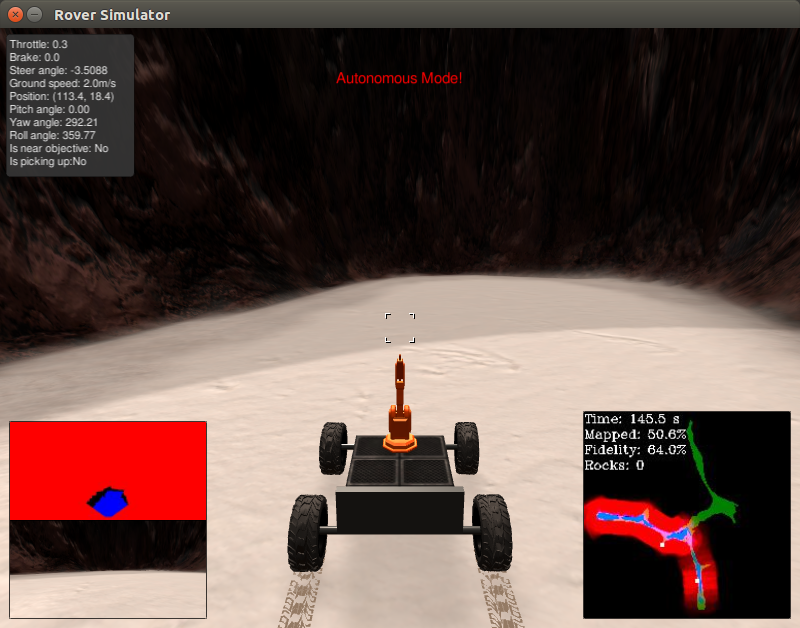
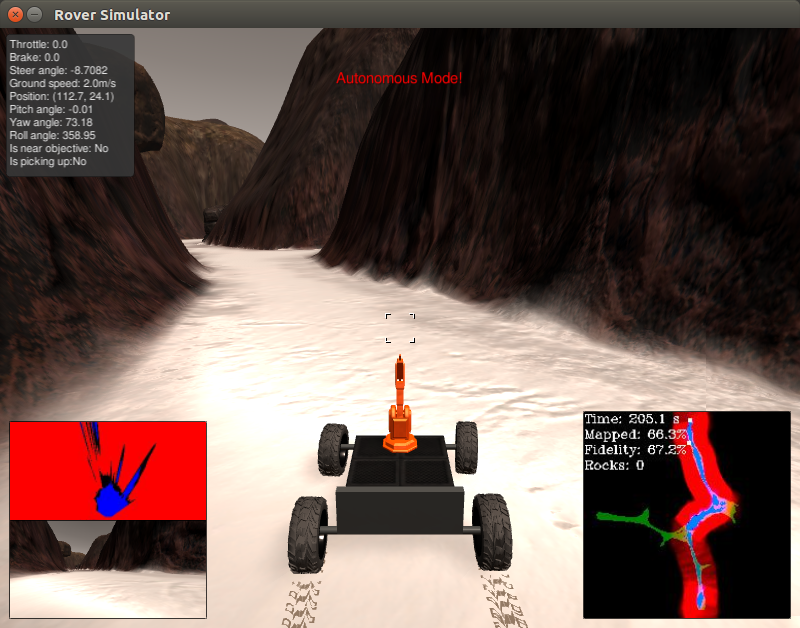
Fixed spinning at tunnel end. Reduced turning angle. Lower go_forward threshold to 1000 to move forward in narrow tunnel.

diff --git a/code/decision.py b/code/decision.py
@@ -25,7 +25,7 @@ def decision_step(Rover):
                     Rover.throttle = 0
                 Rover.brake = 0
                 # Set steering to average angle clipped to the range +/- 15
-                Rover.steer = np.clip(np.mean(Rover.nav_angles * 180/np.pi)+1, -10, 15)
+                Rover.steer = np.clip(np.mean(Rover.nav_angles * 180/np.pi)+1, -10, 10)
             # If there's a lack of navigable terrain pixels then go to 'stop' mode
             elif len(Rover.nav_angles) < Rover.stop_forward:
                     # Set mode to "stop" and hit the brakes!
@@ -52,7 +52,7 @@ def decision_step(Rover):
                     # Release the brake to allow turning
                     Rover.brake = 0
                     # Turn range is +/- 15 degrees, when stopped the next line will induce 4-wheel turning
-                    Rover.steer = -15 # Could be more clever here about which way to turn
+                    Rover.steer = -10 # Could be more clever here about which way to turn
                     # If we're stopped but see sufficient navigable terrain in front then go!
                 if len(Rover.nav_angles) >= Rover.go_forward:
                     # Rover.go_temp = 0
@@ -61,7 +61,7 @@ def decision_step(Rover):
                     # Release the brake
                     Rover.brake = 0
                     # Set steer to mean angle
-                    Rover.steer = np.clip(np.mean(Rover.nav_angles * 180/np.pi)+1, -10, 15)
+                    Rover.steer = np.clip(np.mean(Rover.nav_angles * 180/np.pi)+1, -10, 10)
                     Rover.mode = 'forward'
     # Just to make the rover do something 
     # even if no modifications have been made to the code

diff --git a/code/drive_rover.py b/code/drive_rover.py
@@ -60,7 +60,7 @@ class RoverState():
         # when you can keep going and when you should stop.  Feel free to
         # get creative in adding new fields or modifying these!
         self.stop_forward = 100 # Threshold to initiate stopping
-        self.go_forward = 3000 # Threshold to go forward again
+        self.go_forward = 1000 # Threshold to go forward again
         self.go_temp = 0
         self.max_vel = 2 # Maximum velocity (meters/second)
         # Image output from perception step
